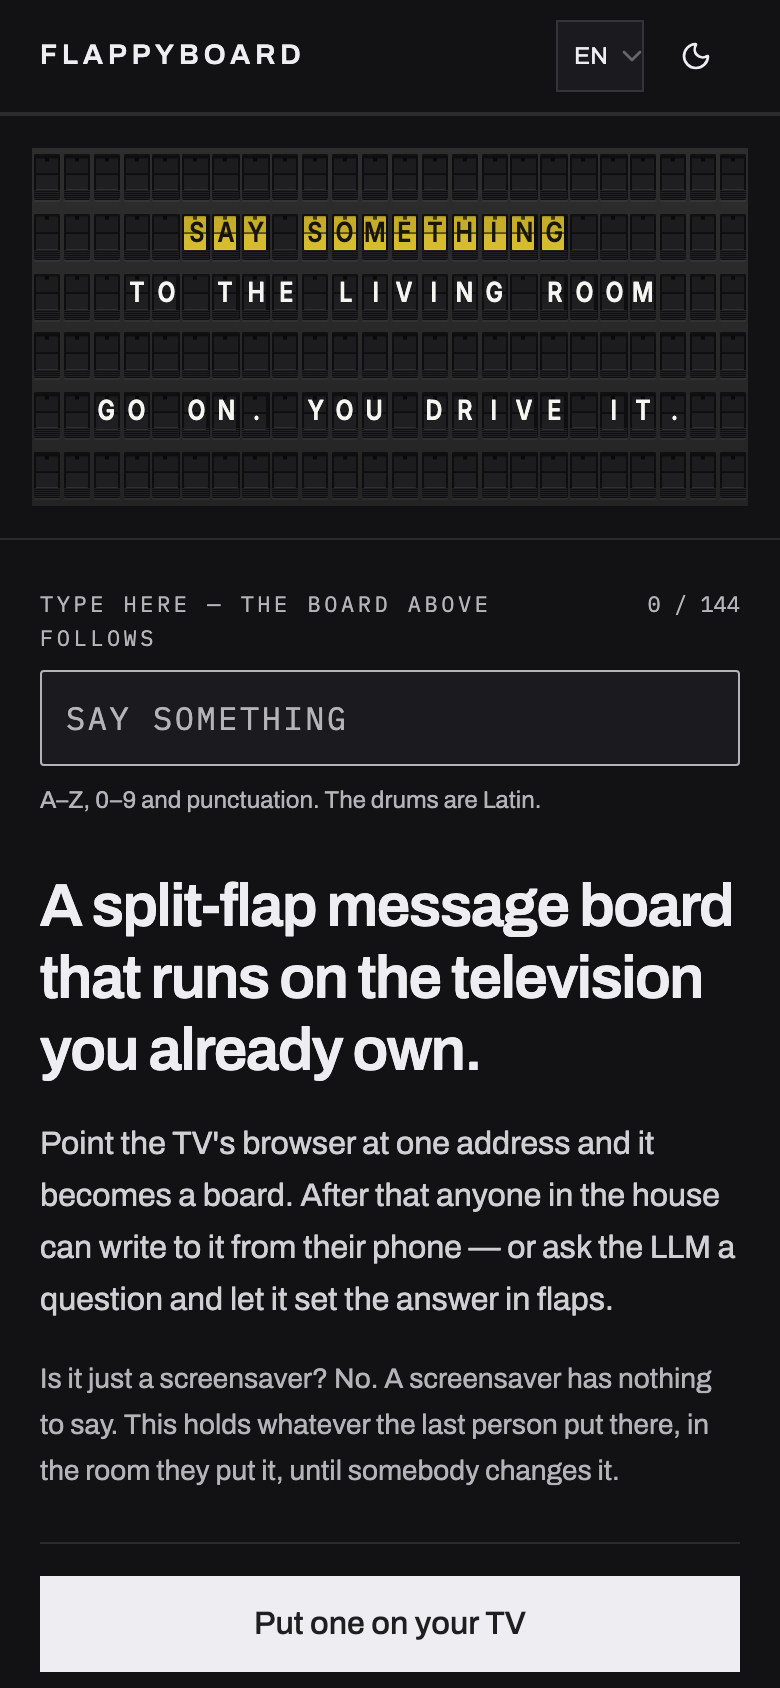
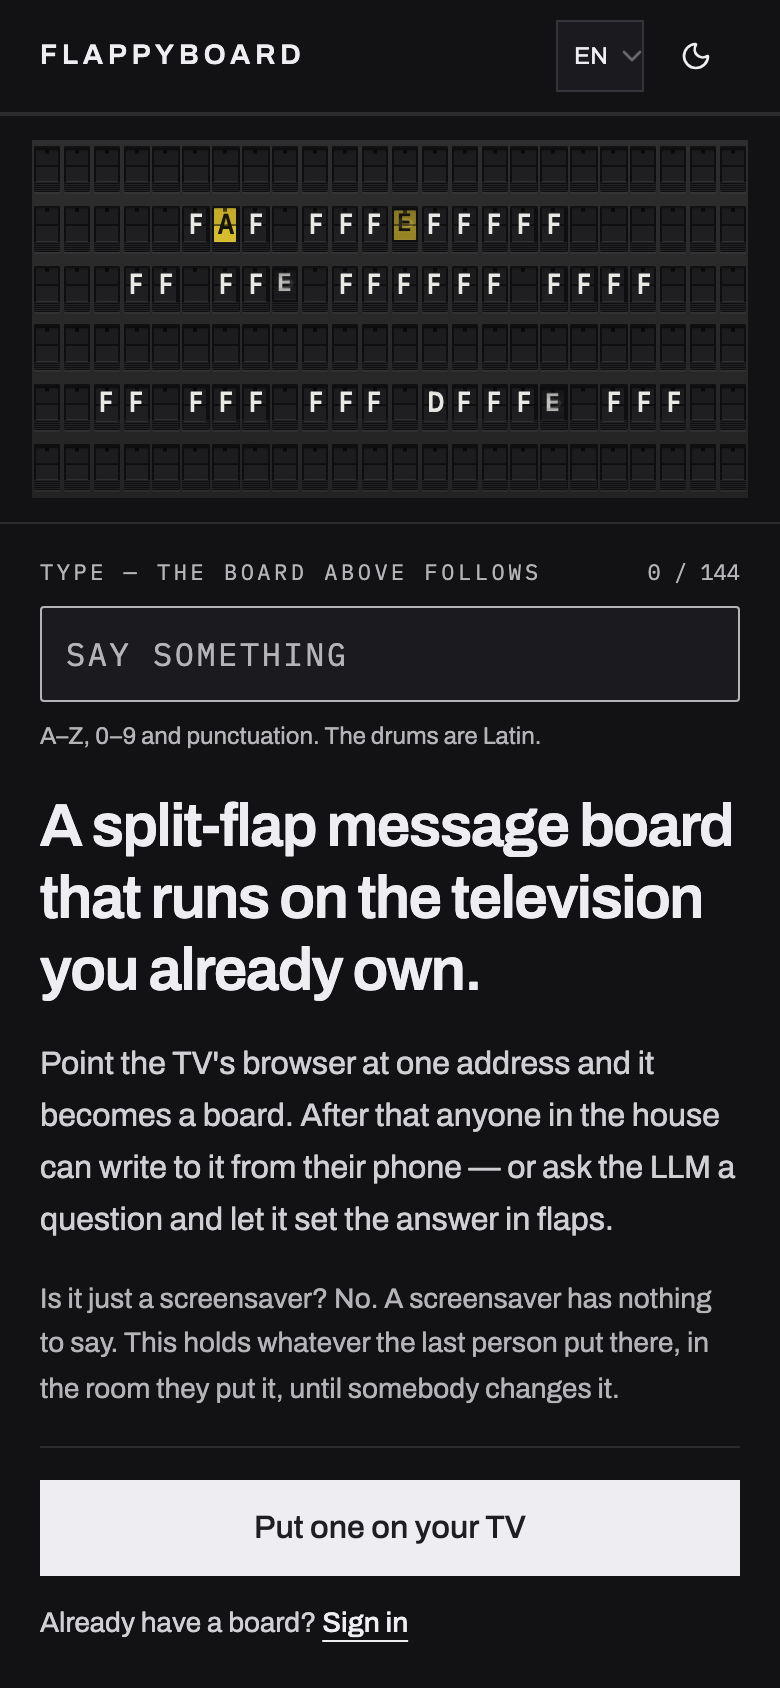
fix(front-door): the two round-2 findings that contradicted my own claims
design-critic round 2 returned SHIP — all five P1s landed, no new P0/P1.
These are the P2s where it caught me reporting something the pixels did
not support, which is worth more than the verdict.

  - The label regression I said was fixed was not. The counter stopped
    wrapping; the label itself still orphaned 'FOLLOWS' onto a second
    line at 390, EN only. Shortened the string: one line in both themes,
    measured, and it keeps the word 'above' that the Chinese label had
    all along and the English was missing.

  - The zh-typed screenshot was not a typed state. Counter 0/144,
    placeholder intact, no focus ring, load flip caught mid-travel. The
    behaviour was proven separately, but the evidence file did not show
    it. The capture now waits for the flip to settle, uses the field's
    own testid, and prints the value, counter, hint and board label so a
    bad capture cannot pass silently again. 0/144 is the CORRECT counter
    for four CJK characters — zero of them have flaps — which is exactly
    why it read as untyped.

Also taken from round 2: the focus bezel was ShadCN's 3px ring plus a
recoloured border stacked on this field's own, giving a five-pixel triple
amber band and a tan used nowhere else in the system — the heaviest
treatment on a page built entirely from 1px rules. Now one 2px outline,
the global indicator. Not fixed with outline-none, which is the defect
this repo has already fixed four times.
[…]

diff --git a/app/routes/home.tsx b/app/routes/home.tsx
@@ -209,7 +209,7 @@ export default function Home({ loaderData }: Route.ComponentProps) {
             floating in undifferentiated black (`design-critic` round 1, P1-d).
             The hairline is the enclosure that survives both themes.
           */}
-          <div className="dark border-y border-border bg-background px-4 py-4 sm:px-8 sm:py-8">
+          <div className="dark border-y border-border bg-background px-4 py-3 sm:px-8 sm:py-8">
             {/*
               The field is 2:1 by construction, so its height is half whatever
               width it is given. `min(100%, 78vh)` is the trade: wide enough that
@@ -243,7 +243,14 @@ export default function Home({ loaderData }: Route.ComponentProps) {
             of the first screen, so the primary *action* keeps its thumb position
             while the *demonstration* moves up under the thing it demonstrates.
           */}
-          <div className="mx-auto flex w-full max-w-5xl flex-1 flex-col gap-6 px-5 pt-6 pb-8 sm:gap-8 sm:px-8 sm:pt-8 sm:pb-10 lg:grid lg:grid-cols-[1fr_26rem] lg:items-start lg:gap-x-14 lg:gap-y-6">
+          {/*
+            Tight on a phone, roomy from `sm` up. A headless capture reports an
+            844-pixel viewport, but iOS Safari's *content* viewport at that
+            device size is about 745pt once its chrome is subtracted, and the
+            CTA was landing past it (`design-critic` round 2). The vertical
+            rhythm here is the only slack there was.
+          */}
+          <div className="mx-auto flex w-full max-w-5xl flex-1 flex-col gap-4 px-5 pt-4 pb-6 sm:gap-8 sm:px-8 sm:pt-8 sm:pb-10 lg:grid lg:grid-cols-[1fr_26rem] lg:items-start lg:gap-x-14 lg:gap-y-6">
             <div className="order-2 flex flex-col gap-4 lg:order-none lg:col-start-1 lg:row-span-2 lg:row-start-1">
               <h1 className="max-w-[22ch] text-3xl font-semibold tracking-tight text-balance text-text-heading sm:text-4xl">
                 {t("lede.title")}
@@ -300,6 +307,18 @@ export default function Home({ loaderData }: Route.ComponentProps) {
                   decorative hero with a newsletter box under it. A 6.32:1
                   hairline is the fix that stays inside the language — the object
                   draws edges, it does not draw shadows.
+
+                  `focus-visible:ring-0` and a border that does not change on
+                  focus: ShadCN's `Input` paints a 3px ring *plus* a recoloured
+                  border, which stacked with this one into a five-pixel triple
+                  amber bezel — the single heaviest treatment on a page built
+                  entirely from 1px rules, and it introduced a tan that appears
+                  nowhere else in the system (`design-critic` round 2). The
+                  global `:focus-visible` outline in `app.css` is the indicator,
+                  and it is one 2px band. **Never** reach for `outline-none` to
+                  tidy this: that kills the outline and its forced-colors
+                  fallback, which is the defect this repo has now fixed four
+                  times.
                 */}
                 <Input
                   id="landing-say"
@@ -312,7 +331,7 @@ export default function Home({ loaderData }: Route.ComponentProps) {
                   spellCheck={false}
                   aria-describedby="landing-say-count landing-say-hint"
                   data-testid="landing-say-input"
-                  className="h-12 rounded-lg border-text-body-subtle bg-input/40 px-3 font-mono text-base tracking-[0.08em] uppercase shadow-none"
+                  className="h-12 rounded-lg border-text-body-subtle bg-input/40 px-3 font-mono text-base tracking-[0.08em] uppercase shadow-none focus-visible:border-text-body-subtle focus-visible:ring-0"
                 />
                 {/*
                   The charset, said **before** the refusal rather than after it.
